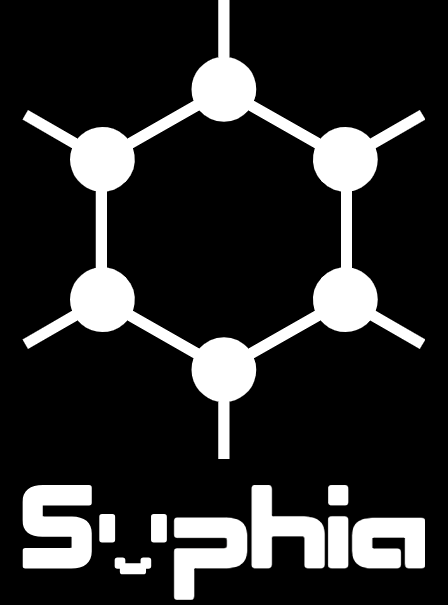
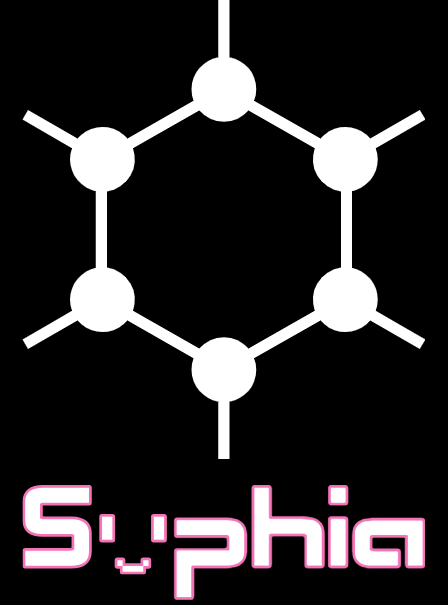
fix(yukihana-lamy): :lipstick: make bootmask prettier

Changed region(s): [[0.3125, 0.8033, 0.9688, 1.0], [0.0312, 0.8033, 0.2812, 0.9521], [0.25, 0.9223, 0.3438, 0.9521]]

diff --git a/robotnixConfigurations/yukihana-lamy/bootmask.html b/robotnixConfigurations/yukihana-lamy/bootmask.html
@@ -15,7 +15,9 @@
 
         .mask {
             /* High brightness filter is basically a mask right */
-            filter: brightness(999);
+            filter: brightness(999)
+                /* Stole green filter from https://stackoverflow.com/a/53336754 :( */
+                invert(42%) sepia(93%) saturate(1352%) hue-rotate(87deg) brightness(119%) contrast(119%);;
         }
         
         .title {
@@ -43,7 +45,7 @@
 <body>
     <div class="container">
         <img class="mask logo" src="https://upload.wikimedia.org/wikipedia/commons/1/19/GrapheneOS_Logo.svg">
-        <img class="mask title" src="https://sophiah.gay/assets/Sophia%20Logo%20-%20Inverted-C_bvJ8PJ.svg">
+        <img class="title" src="https://sophiah.gay/assets/Sophia%20Logo%20-%20Inverted-C_bvJ8PJ.svg">
     </div>
 </body>
 </html>

diff --git a/robotnixConfigurations/readme.md b/robotnixConfigurations/readme.md
@@ -12,6 +12,8 @@ that the files resolution is 448 x 605 (TODO:check if this actually matters..
 Pentanes one is like that so I'll stick to it for now, I don't wish to wait
 another 3 hours just to check rn).
 
+To finish it off, open in gimp and color to alpha the green out.
+
 ## Yukihana Lamy
 
 Stuff to set up after install;
